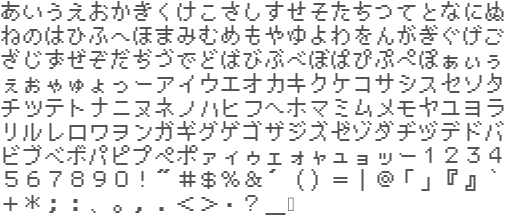
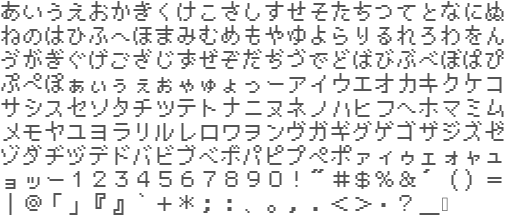
udpate akashic-web-page

diff --git a/tutorial/v2/bitmap-font.html b/tutorial/v2/bitmap-font.html
@@ -301,7 +301,7 @@
 <li>(b) 画像に含めたい文字が書かれたテキストファイル</li>
 </ul>
 <p>ここでは例として、(a) に上記 PixelMplus の PixelMplus10-Regular.ttf を、 (b) に次の内容の chars.txt を使います。</p>
-<pre><code>あいうえおかきくけこさしすせそたちつてとなにぬねのはひふへほまみむめもやゆよわをんがぎぐげござじずぜぞだぢづでどばびぶべぼぱぴぷぺぽぁぃぅぇぉゃゅょっーアイウエオカキクケコサシスセソタチツテトナニヌネノハヒフヘホマミムメモヤユヨラリルレロワヲンガギグゲゴザジズゼゾダヂヅデドバビブベボパピプペポァィゥェォャュョッー１２３４５６７８９０！”＃＄％＆’（）＝｜＠「」『』｀＋＊；：、。，．＜＞・？＿</code></pre><p>これらを置いたディレクトリで次のコマンドを実行すると、同じディレクトリに画像 font.png と、グリフ情報 font_glyphs.json が生成されます。(上記の画像はこの font.png です)</p>
+<pre><code>あいうえおかきくけこさしすせそたちつてとなにぬねのはひふへほまみむめもやゆよらりるれろわをんゔがぎぐげござじずぜぞだぢづでどばびぶべぼぱぴぷぺぽぁぃぅぇぉゃゅょっーアイウエオカキクケコサシスセソタチツテトナニヌネノハヒフヘホマミムメモヤユヨラリルレロワヲンヴガギグゲゴザジズゼゾダヂヅデドバビブベボパピプペポァィゥェォャュョッー１２３４５６７８９０！”＃＄％＆’（）＝｜＠「」『』｀＋＊；：、。，．＜＞・？＿</code></pre><p>これらを置いたディレクトリで次のコマンドを実行すると、同じディレクトリに画像 font.png と、グリフ情報 font_glyphs.json が生成されます。(上記の画像はこの font.png です)</p>
 <pre><code class="language-sh">bmpfont-generator ./PixelMplus10-Regular.ttf ./font.png -f chars.txt -H 20 -F &#39;#555555&#39;</code></pre>
 <p>コマンド中のファイル名部分は、用意したファイルに合わせて変更してください。</p>
 <p>なおここで <code>-H</code> は文字のサイズ (ピクセル単位) を、 <code>-F</code> は文字色 (<code>g.FilledRect</code> や CSS の色と同じ形式) を指定するオプションです。(すなわち高さ 20 ピクセル、色が暗めのグレー (#555555) を指定しています)</p>

diff --git a/tutorial/v3/bitmap-font.html b/tutorial/v3/bitmap-font.html
@@ -359,7 +359,7 @@
 <li>(b) 画像に含めたい文字が書かれたテキストファイル</li>
 </ul>
 <p>ここでは例として、(a) に上記 PixelMplus の PixelMplus10-Regular.ttf を、 (b) に次の内容の chars.txt を使います。</p>
-<pre><code>あいうえおかきくけこさしすせそたちつてとなにぬねのはひふへほまみむめもやゆよわをんがぎぐげござじずぜぞだぢづでどばびぶべぼぱぴぷぺぽぁぃぅぇぉゃゅょっーアイウエオカキクケコサシスセソタチツテトナニヌネノハヒフヘホマミムメモヤユヨラリルレロワヲンガギグゲゴザジズゼゾダヂヅデドバビブベボパピプペポァィゥェォャュョッー１２３４５６７８９０！”＃＄％＆’（）＝｜＠「」『』｀＋＊；：、。，．＜＞・？＿</code></pre><p>これらを置いたディレクトリで次のコマンドを実行すると、同じディレクトリに画像 font.png と、グリフ情報 font_glyphs.json が生成されます。(上記の画像はこの font.png です)</p>
+<pre><code>あいうえおかきくけこさしすせそたちつてとなにぬねのはひふへほまみむめもやゆよらりるれろわをんゔがぎぐげござじずぜぞだぢづでどばびぶべぼぱぴぷぺぽぁぃぅぇぉゃゅょっーアイウエオカキクケコサシスセソタチツテトナニヌネノハヒフヘホマミムメモヤユヨラリルレロワヲンヴガギグゲゴザジズゼゾダヂヅデドバビブベボパピプペポァィゥェォャュョッー１２３４５６７８９０！”＃＄％＆’（）＝｜＠「」『』｀＋＊；：、。，．＜＞・？＿</code></pre><p>これらを置いたディレクトリで次のコマンドを実行すると、同じディレクトリに画像 font.png と、グリフ情報 font_glyphs.json が生成されます。(上記の画像はこの font.png です)</p>
 <pre><code class="language-sh">bmpfont-generator ./PixelMplus10-Regular.ttf ./font.png -f chars.txt -H 20 -F &#39;#555555&#39;</code></pre>
 <p>コマンド中のファイル名部分は、用意したファイルに合わせて変更してください。</p>
 <p>なおここで <code>-H</code> は文字のサイズ (ピクセル単位) を、 <code>-F</code> は文字色 (<code>g.FilledRect</code> や CSS の色と同じ形式) を指定するオプションです。(すなわち高さ 20 ピクセル、色が暗めのグレー (#555555) を指定しています)</p>
